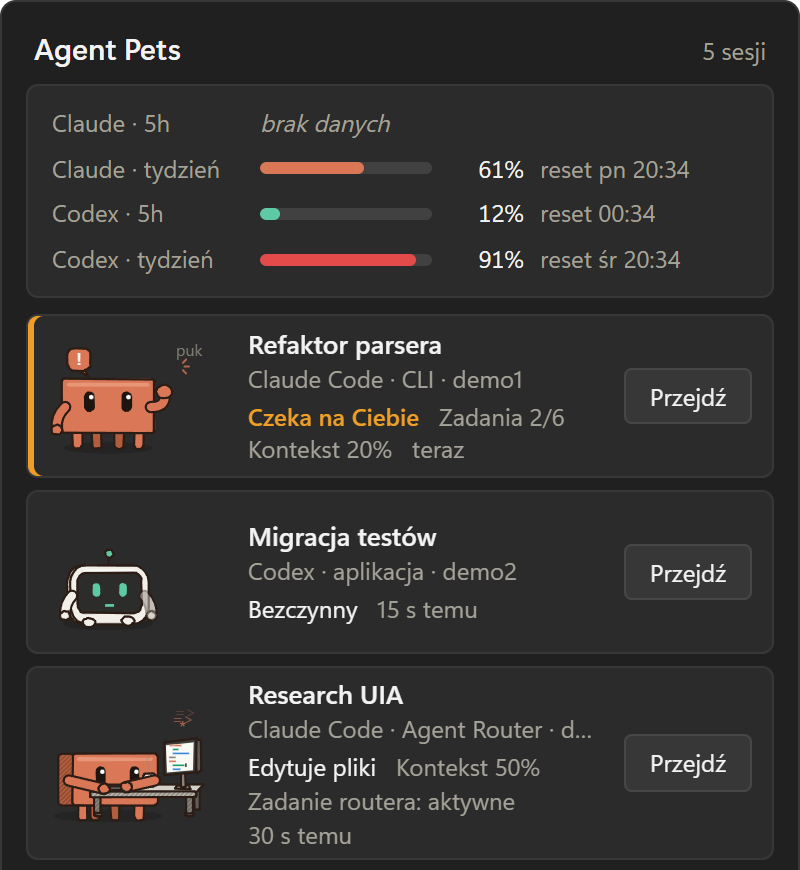
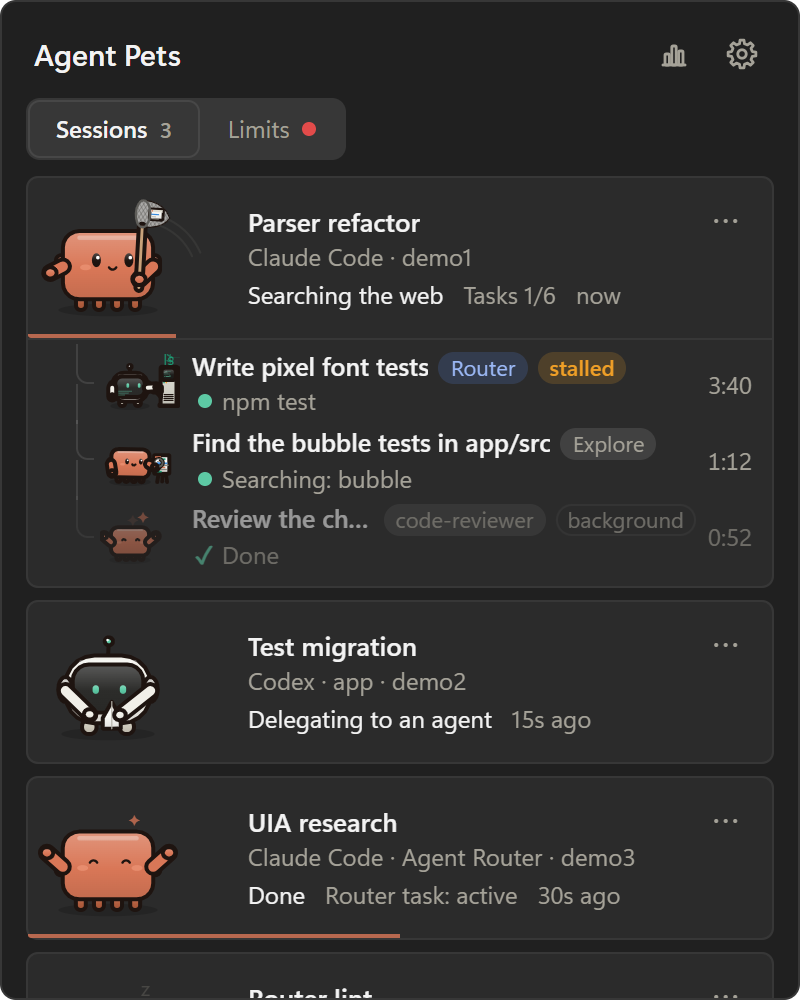
docs: new README screenshots of the redesigned panel, wizard and settings
tools/showcase/screens.mjs retakes them from the dev server's demo data.

diff --git a/README.md b/README.md
@@ -77,7 +77,7 @@ Claude Code, Codex and opencode get the most care and testing; the experimental 
 
 | Panel | First-run wizard | Settings |
 |---|---|---|
-| <img src="docs/images/panel.png" alt="Panel with limits and sessions" width="260"> | <img src="docs/images/wizard.png" alt="Wizard step: choose the pets' look, with a live preview" width="340"> | <img src="docs/images/settings.png" alt="Settings window, Apps tab" width="340"> |
+| <img src="docs/images/panel.png" alt="Panel with the session list: a main session with its subagents and two more sessions" width="260"> | <img src="docs/images/wizard.png" alt="Wizard step: pet appearance, motion and a gallery of seven styles" width="400"> | <img src="docs/images/settings.png" alt="Settings window, Look tab with the live preview and all scenes" width="400"> |
 
 ## Privacy
 

diff --git a/docs/building.md b/docs/building.md
@@ -128,6 +128,7 @@ cd tools\showcase; pnpm install
 node record.mjs                     # all four: pets, states, styles, dynamic
 node record.mjs states --zoom=2     # one board, twice as sharp
 node record.mjs banner              # docs/images/banner.png, a still at twice the size
+node screens.mjs                    # docs/images/{panel,wizard,settings}.png from the demo data (needs the dev server on :1420)
 ```
 
 `app/showcase.html?mode=gallery|states|styles|dynamic|banner&live=1` shows a board live in the browser.
